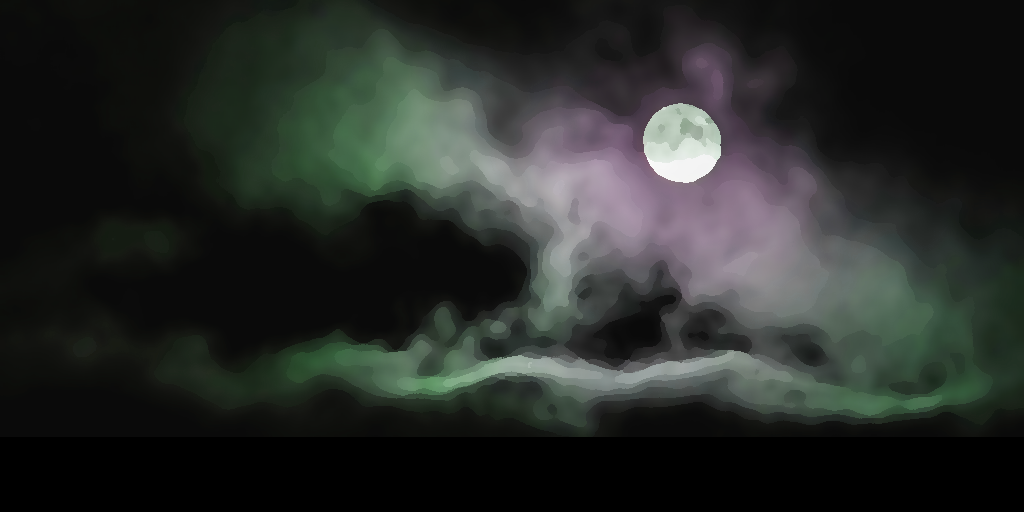
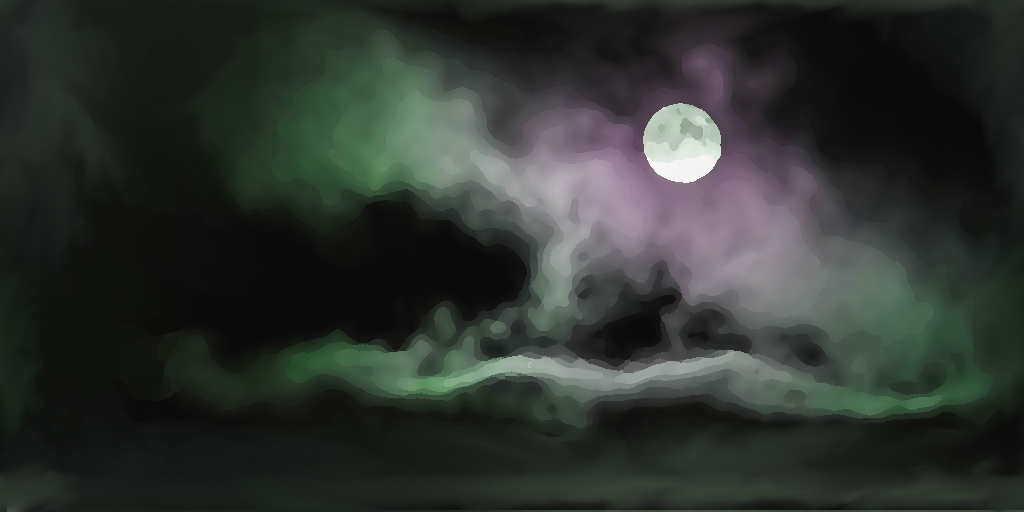
Spruced up the splash screen a little.

diff --git a/SpiralTrajectoryGame/public_html/src/MyGame/Scenes/Splash/SplashScreen.js b/SpiralTrajectoryGame/public_html/src/MyGame/Scenes/Splash/SplashScreen.js
@@ -42,6 +42,7 @@ SplashScreen.prototype.loadScene = function () {
 };
 
 SplashScreen.prototype.unloadScene = function () {
+    gEngine.LayerManager.cleanUp();
     for(var texture in Config.UI.Textures) {
         gEngine.Textures.unloadTexture(Config.UI.Textures[texture]);
     }
@@ -108,19 +109,27 @@ SplashScreen.prototype._creditsButtonCallback = function() {
 };
 
 SplashScreen.prototype._initializeBackground = function() {
-    var farBG = new SpriteRenderable(Config.SplashScreen.Textures.FarBackgroundTexture);
+        var farBG = new LightRenderable(Config.SplashScreen.Textures.FarBackgroundTexture);
     farBG.setElementPixelPositions(0, 1024, 0, 512);
     farBG.getXform().setSize(400, 200);
     farBG.getXform().setPosition(0, 0);
     farBG.getXform().setZPos(-10);
-    this.mFarBG = new GameObject(farBG);
-
-    var midBG = new SpriteRenderable(Config.SplashScreen.Textures.MidBackgroundTexture);
+    this.mFarBG = new ParallaxGameObject(farBG, 5, this.mMainCamera);
+    this.mFarBG.setCurrentFrontDir([-1, 0, 0]);
+    this.mFarBG.setSpeed(.2);
+    this.mFarBG.setIsTiled(true);
+    
+    var midBG = new LightRenderable(Config.SplashScreen.Textures.MidBackgroundTexture);
     midBG.setElementPixelPositions(0, 1024, 0, 512);
     midBG.getXform().setSize(352, 176);
     midBG.getXform().setPosition(0, 0);
-    midBG.getXform().setZPos(-10);
-    this.mMidBG = new GameObject(midBG);
+    midBG.getXform().setZPos(-10); 
+  
+    this.mMidBG = new ParallaxGameObject(midBG , 1, this.mMainCamera);
+    this.mMidBG.setCurrentFrontDir([0, -1, 0]);
+    this.mMidBG.setIsTiled(false);
+    
+
     
     gEngine.LayerManager.addToLayer(gEngine.eLayer.eBackground, this.mMidBG);
     gEngine.LayerManager.addToLayer(gEngine.eLayer.eBackground, this.mFarBG);
